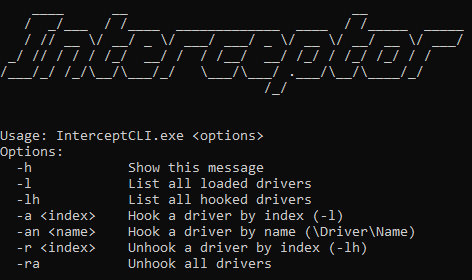
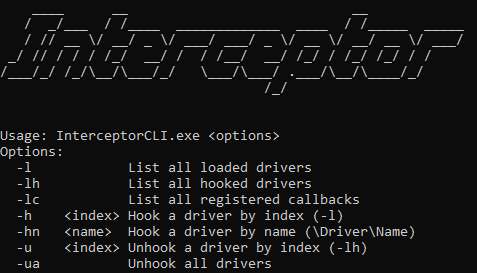
updated week 4 for publishing reasons

Changed region(s): [[0.0, 0.4689, 0.8898, 0.9963], [0.0, 0.0293, 0.9788, 0.3516], [0.0297, 0.0879, 0.0593, 0.1172]]

diff --git a/_posts/2021-10-30-week-4.md b/_posts/2021-10-30-week-4.md
@@ -23,11 +23,11 @@ Interceptor currently supports IRP hooking/unhooking drivers by name or by index
 
 ![Interceptor functionality](/assets/images/interceptor-functionality.png)
 
-Using the `-l` option, Interceptor will list all the currently loaded modules on the system and assign them an index. This index can be used to hook the module with the `-a` option.
+Using the `-l` option, Interceptor will list all the currently loaded modules on the system and assign them an index. This index can be used to hook the module with the `-h` option.
 
 ![Interceptor loaded modules](/assets/images/interceptor-loaded-modules.png)
 
-Using the `-lh` option, Interceptor will list all the currently hooked modules with their corresponding index in the global *hooked drivers* array. Interceptor currently supports hooking up to 64 drivers. The index can be used with the `-r` option to unhook the module.
+Using the `-lh` option, Interceptor will list all the currently hooked modules with their corresponding index in the global *hooked drivers* array. Interceptor currently supports hooking up to 64 drivers. The index can be used with the `-u` option to unhook the module.
 
 ![Interceptor list hooked drivers](/assets/images/interceptor-list-hooked-drivers.png)
 
@@ -77,5 +77,17 @@ As mentioned in one of my previous blogposts, locating the callback arrays for `
 Finding the callback array for `PsSetLoadImageNotifyRoutine()` is slightly different as the function first jumps to `PsSetLoadImageNotifyRoutineEx()`. Next, we skip looking for the `CALL` instruction and go straight for the `LEA` instruction instead, which puts the callback array address into `RCX`.
 
 ![LoadImage callback array](/assets/images/load-image-callback-array.png)
+
+Interceptor's callback module currently implements patching functionality for Process and Thread callbacks.
+
+![Callback patching functionality](/assets/images/interceptor-callback-patching-functionality.png)
+
+The registered callbacks on the system and their patch status can be listed using the `-lc` command.
+
+![Callback listing](/assets/images/interceptor-list-callbacks.png)
+
+###. Conclusion
+
+In the previous blogpost of this series, we combined the functionality of two drivers, Evil and Interceptor, to partially bypass ESET Internet Security. In this post we took a closer look at Interceptor’s capabilities and future features that are in development. In the upcoming blogposts we’ll see how Interceptor as a fully standalone driver is able to conquer not just ESET Internet Security, but other EDR products as well.
 
 (Un)fortunately, I received my first COVID-19 vaccination shot in the middle of the week, which has knocked me out quite good, so I had to take a couple days off.
